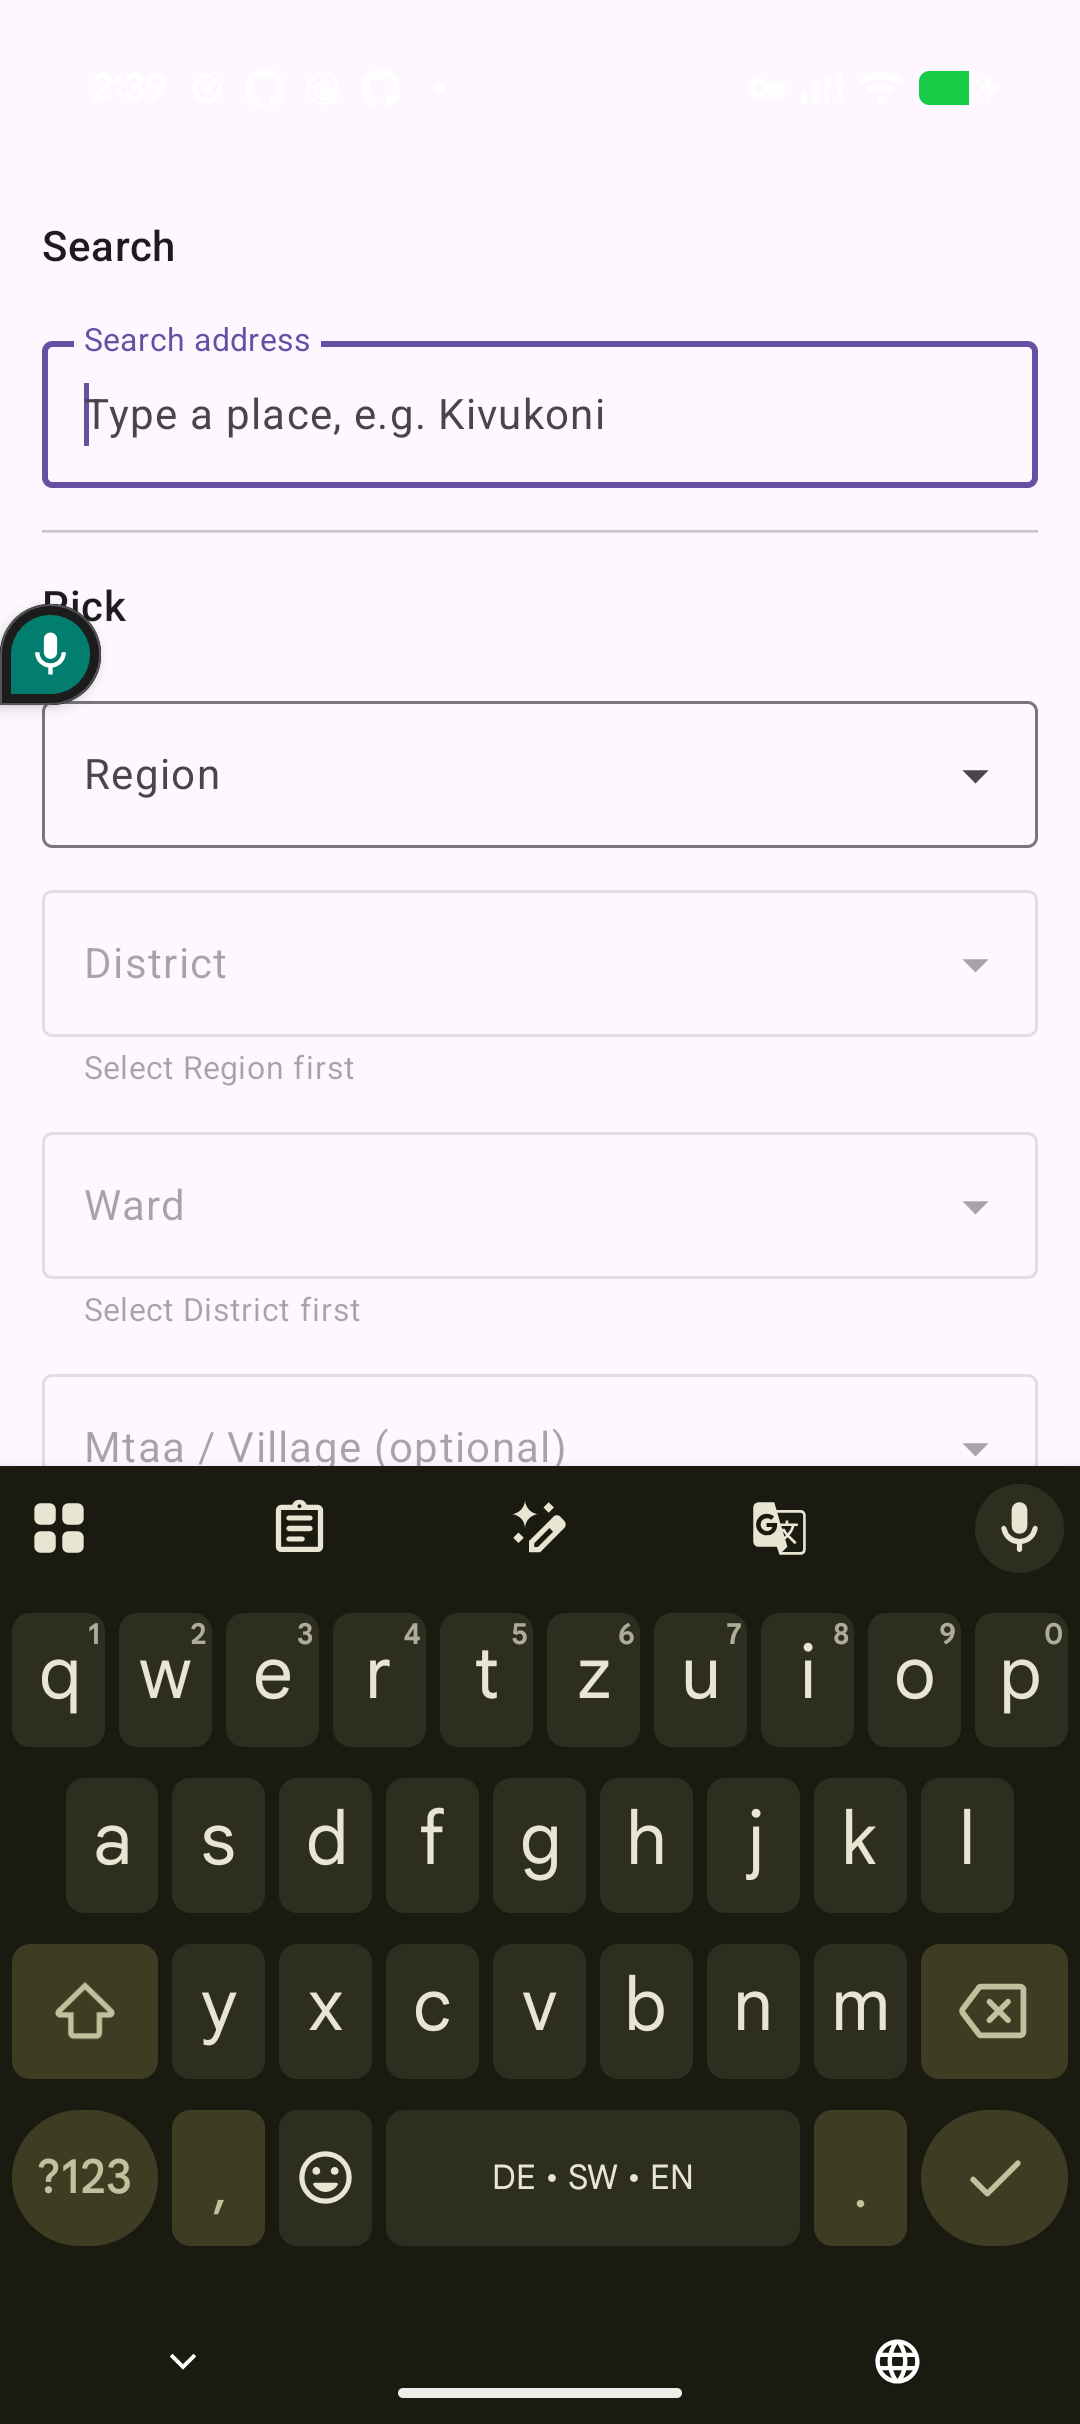
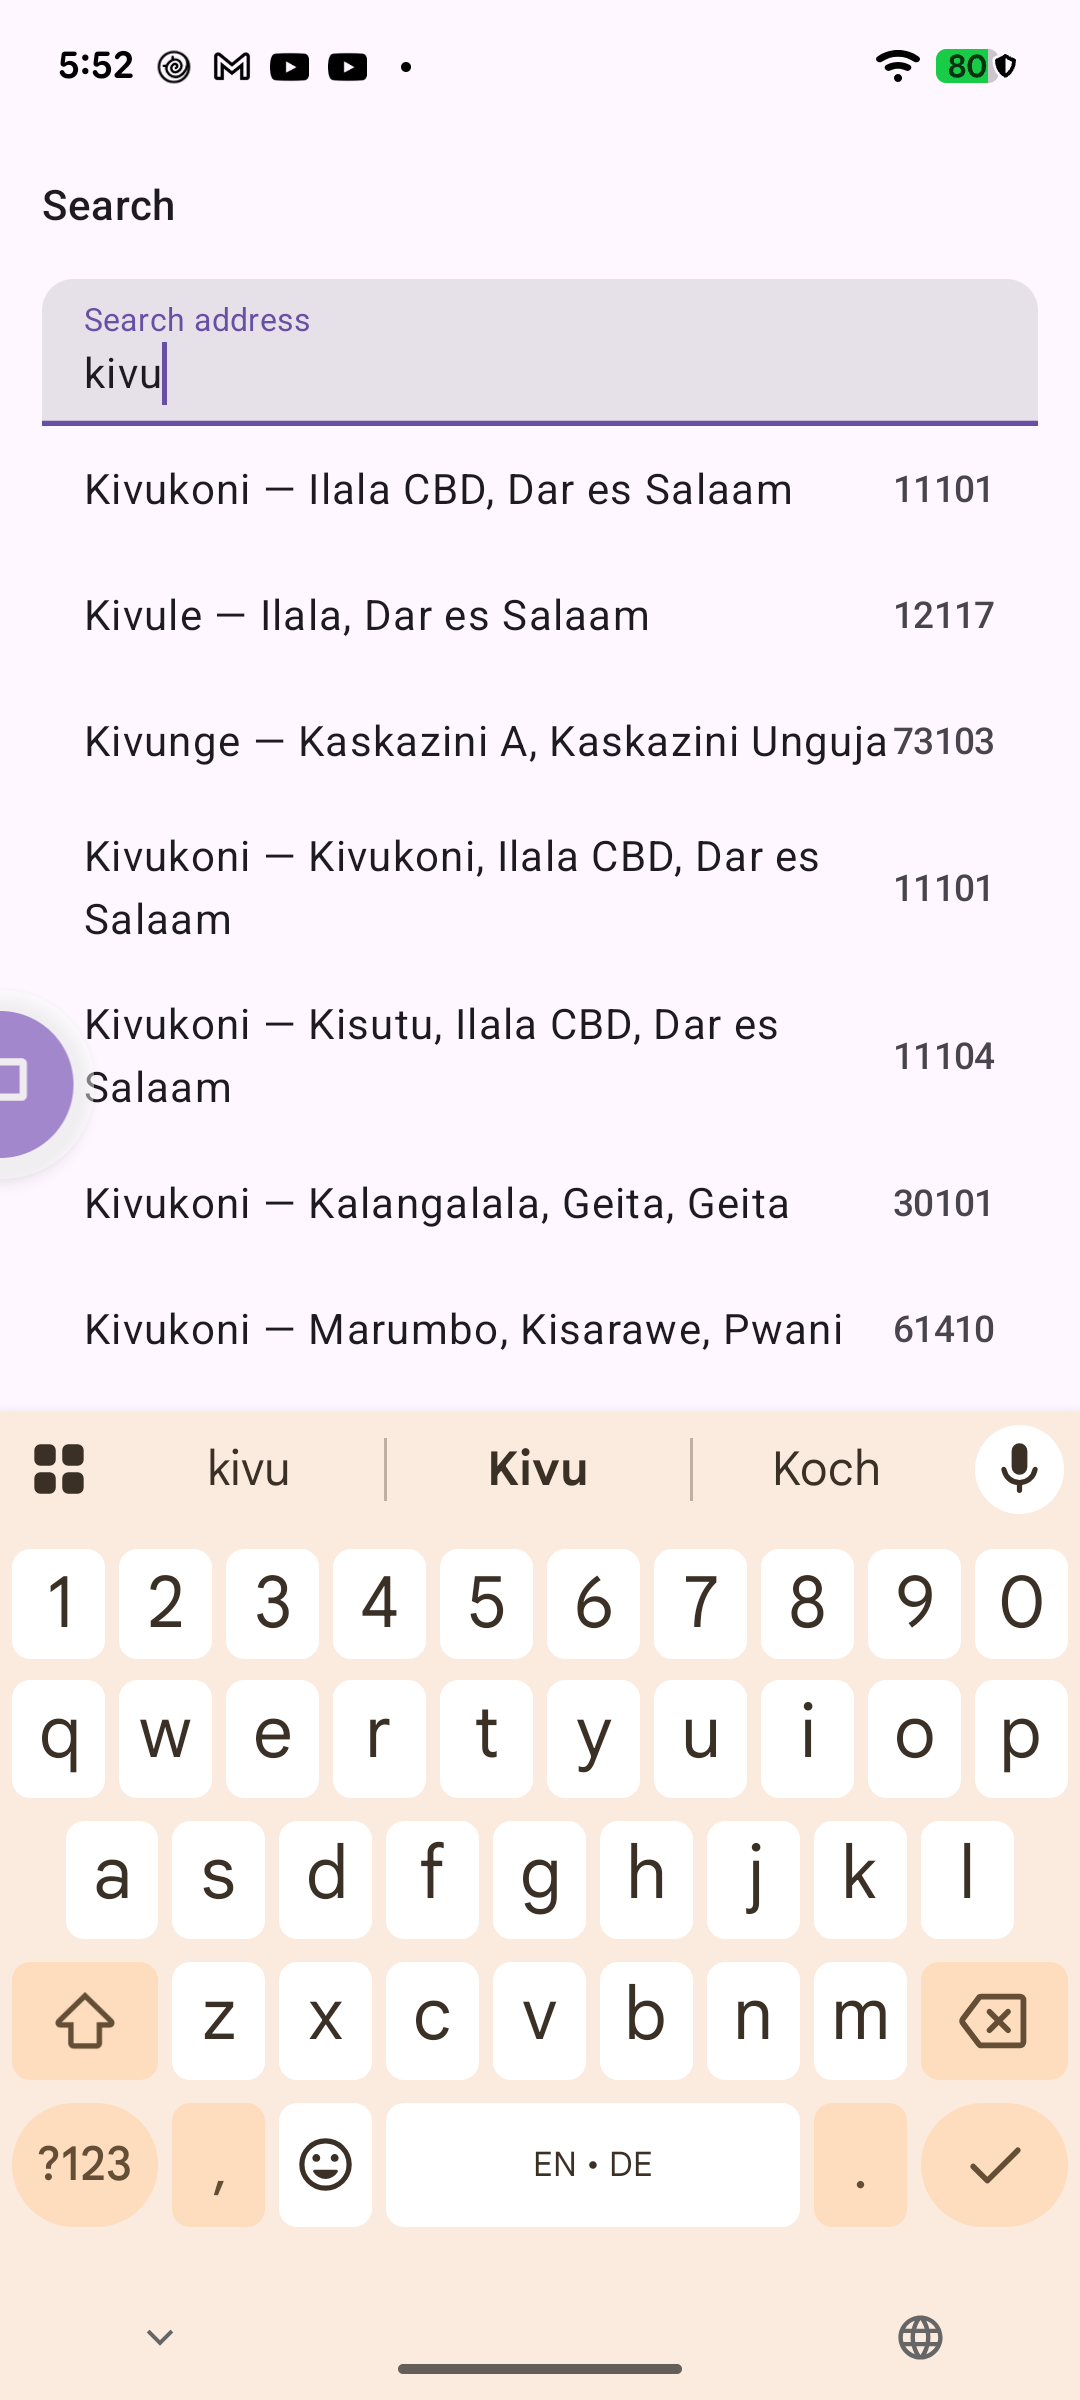
docs: retake the widget screenshots with the forminput-compose fields and fix a README typo

diff --git a/README.md b/README.md
@@ -24,7 +24,7 @@ Tanzanian postcode list (see <https://www.tanzaniapostcode.com/> and
 |---|---|---|
 | `io.github.omarshehe:tz-address-core` | the model and the `AddressRepository` interface | Kotlin 2.2+ (iOS/native: 2.4+) |
 | `io.github.omarshehe:tz-address-data` | the bundled database and the repository (includes `core`) | Kotlin 2.2+ (iOS/native: 2.4+) |
-| `io.github.omarshehe:tz-address-ui` | `AddressSearchField` and `AddressPicker` (Compose) | Compose Multiplatform 1.12, built with Kotlin 2.4and [`forminput-compose`](https://github.com/OmarShehe/FormInputs) 2.0.0 (pulled in transitively) |
+| `io.github.omarshehe:tz-address-ui` | `AddressSearchField` and `AddressPicker` (Compose) | Compose Multiplatform 1.12, built with Kotlin 2.4, and [`forminput-compose`](https://github.com/OmarShehe/FormInputs) 2.0.0 (pulled in transitively) |
 
 Targets: Android (minSdk 21 for `core`, **23** for `data` and `ui`, which their dependencies require), JVM 17, iOS (arm64 and
 simulator arm64). Backends and headless apps use `core` + `data` and
